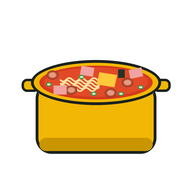
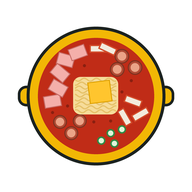
앱 아이콘을 위에서 본 부대찌개 냄비로 변경
Claude-Session: https://claude.ai/code/session_01BUJheDbHLvwfdThgHqs74R

diff --git a/install.html b/install.html
@@ -109,7 +109,7 @@ footer{margin-top:22px;font-size:12px;color:var(--muted);text-align:center}
     <div class="warn" id="inapp-android" hidden><b class="ic">!</b><div>카카오톡·인스타그램 안에서 열린 화면에서는 다운로드가 안 될 수 있어요. 오른쪽 위 <b>⋮</b> 메뉴에서 <b>다른 브라우저로 열기</b>(Chrome)를 눌러주세요.</div></div>
     <a class="cta" href="onepan-all.apk" download="원팬요리의모든것.apk" id="apkbtn">
       <svg viewBox="0 0 24 24" width="22" height="22" fill="none" stroke="currentColor" stroke-width="2.2" stroke-linecap="round" stroke-linejoin="round" aria-hidden="true"><path d="M12 4v11m0 0-4.5-4.5M12 15l4.5-4.5M5 20h14"/></svg>
-      APK 다운로드 <span class="sz">약 68KB</span></a>
+      APK 다운로드 <span class="sz">약 100KB</span></a>
     <ol class="steps">
       <li><div class="st"><b>위 버튼을 눌러 다운로드</b><p>"이 유형의 파일은 기기에 해를 끼칠 수 있습니다" 같은 경고가 뜨면 <span class="key">다운로드</span>를 누르세요. 스토어 밖에서 받는 파일이라 뜨는 안내예요.</p></div></li>
       <li><div class="st"><b>다운로드한 파일 열기</b><p>화면 아래 완료 알림의 <span class="key">열기</span>를 누르세요. 알림을 놓쳤다면 <span class="key">내 파일 → 다운로드</span>에서 <b>원팬요리의모든것.apk</b>를 누르면 돼요.</p></div></li>
